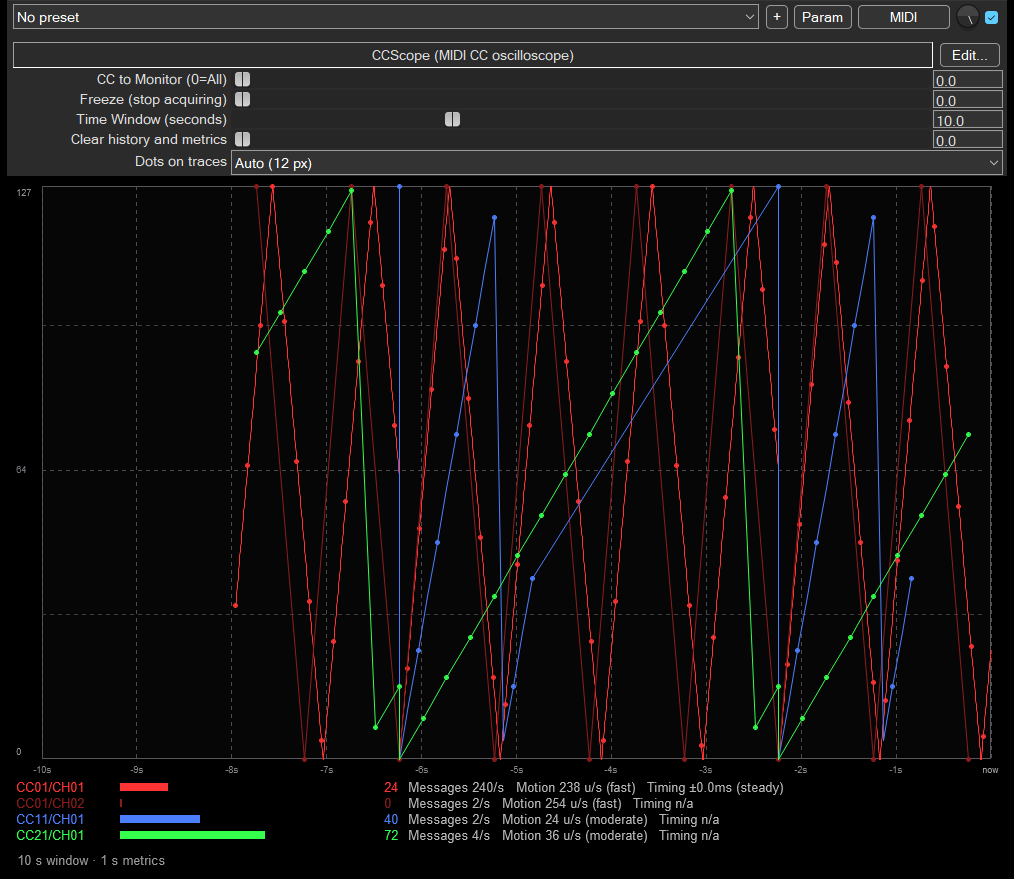
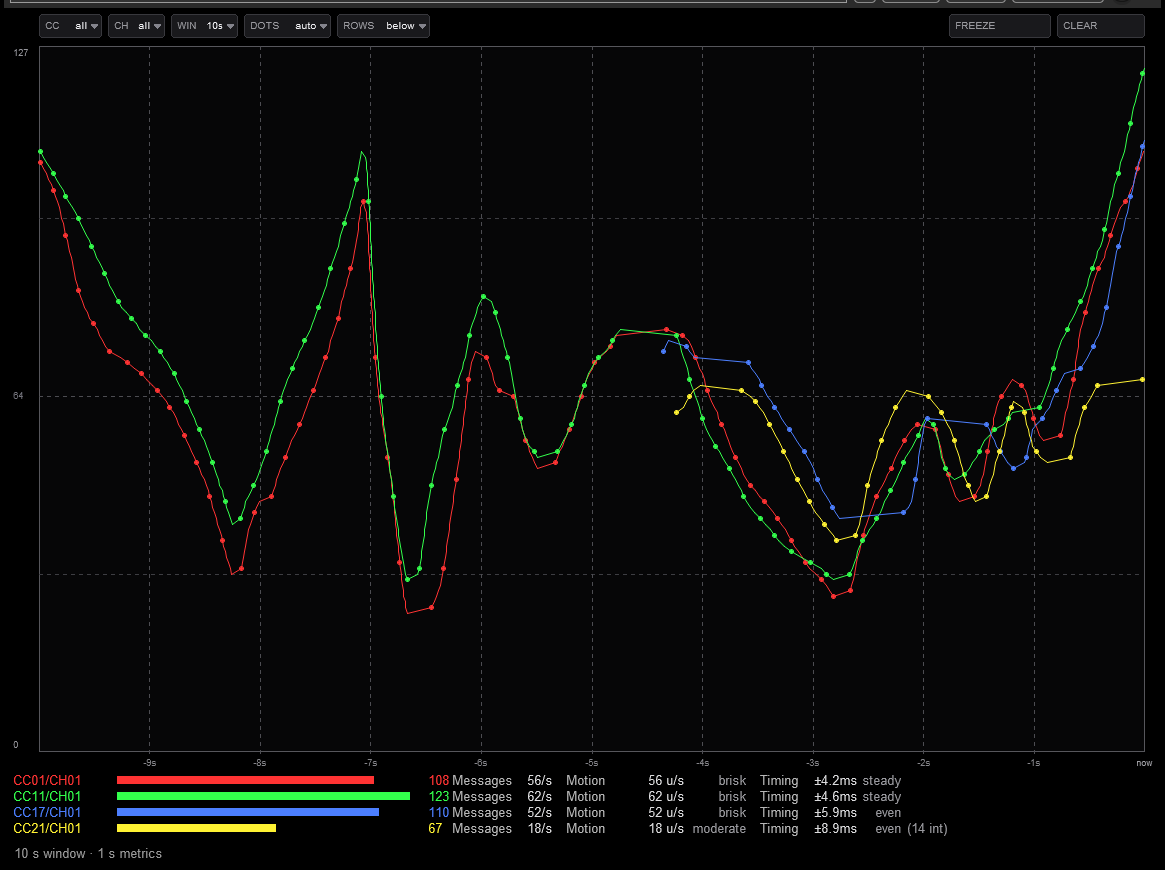
ccscope: the GIF is recorded again, on 0.7.4
The old animation was from 0.6, when the parameters were REAPER sliders in a
strip above the plot: the first thing a visitor saw was an interface that no
longer exists.

This one is four faders (CC 1, 11, 17, 21) moved by hand on real hardware, with
the demo item muted so only the controller drives the picture: 10 s, 8 fps,
900x672, 3.1 MB (the previous one was 2.7 MB). Captured from the plugin window
with PrintWindow, cropped to the canvas, palette generated with stats_mode=diff
and no dither.

ccscope.png — the still ReaPack shows — is a frame from the same take.

diff --git a/MIDI/ccscope/README.md b/MIDI/ccscope/README.md
@@ -4,10 +4,10 @@ A JSFX effect for REAPER 6.37 or newer.
 
 ![CCScope in REAPER: a controller being moved, one bar per CC](ccscope.gif)
 
-Recorded in REAPER: one fader gesture, four CC streams (four shades of colour), the
-metrics updating live. The static screenshot used by ReaPack is [`ccscope.png`](ccscope.png).
-Both were recorded on 0.6, when the parameters were REAPER sliders in a strip above the plot;
-the same readings, with the controls now drawn by the plugin, are in the bar at the top.
+Recorded in REAPER, real hardware: four faders (CC 1, 11, 17, 21) moved by hand, one colour
+per CC, the metrics updating live and the columns staying aligned while the numbers change.
+The static screenshot used by ReaPack is [`ccscope.png`](ccscope.png), a frame from the same
+take.
 
 Two display modes: a scrolling time graph and one fader bar per active CC. Each CC number is
 tracked **per MIDI channel**, so the same CC from different channels is shown and measured
